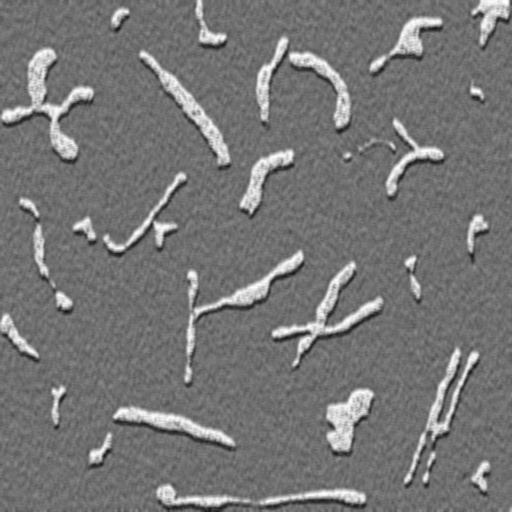
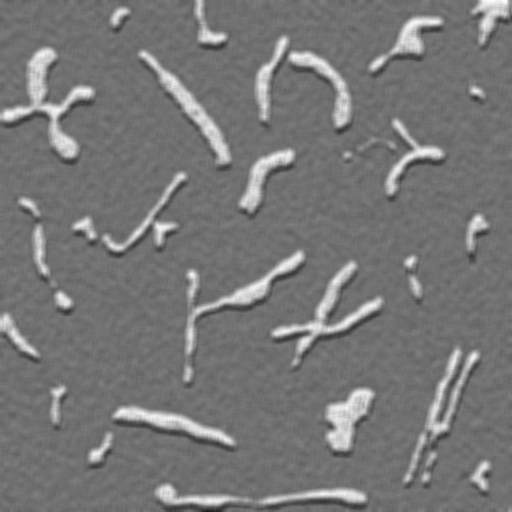
Alterar trabalho final

diff --git a/trabalho_final/trabalho_final.py b/trabalho_final/trabalho_final.py
@@ -6,11 +6,14 @@ cv2.imshow("Imagem ruidosa", img)
 cv2.waitKey()
 
 # Filtro
-imgf = cv2.GaussianBlur(img, (5, 5), 0, None, 10)
+imgf = cv2.GaussianBlur(img, (7, 7), 10)
 cv2.imshow("Aplicado o filtro gaussiano", imgf)
 #imgf = cv2.medianBlur(img, 5)
 #cv2.imshow("Aplicado o filtro da mediana", imgf)
 cv2.waitKey()
+
+rel, img_r_lim = cv2.threshold(img, 145, 255, cv2.THRESH_BINARY)
+cv2.imshow("Imagem ruidosa limiarizada", img_r_lim)
 
 # Limiarização
 rel, img_lim = cv2.threshold(imgf, 145, 255, cv2.THRESH_BINARY)
@@ -19,17 +22,21 @@ cv2.imshow("Imagem limiarizada", img_lim)
 # Comparação
 # Imagem original
 orig = cv2.imread("imagem_original.png")
-rel, orig_lim = cv2.threshold(orig, 172, 255, cv2.THRESH_BINARY)
+rel, orig_lim = cv2.threshold(orig, 170, 255, cv2.THRESH_BINARY)
 cv2.imshow("Imagem original", orig_lim)
 
 pixel_total = math.pow(len(img_lim), 2)
 eq_pixel = 0
+eq_pixel2 = 0
 for i in range(len(img_lim)):
     for j in range(len(img_lim[i])):
         if (img_lim[i,j].any() == orig_lim[i,j].any()):
             eq_pixel += 1
+        if (img_r_lim[i,j].any() == orig_lim[i,j].any()):
+            eq_pixel2 += 1
 
 print((eq_pixel/pixel_total)*100)
+print((eq_pixel2/pixel_total)*100)
 cv2.waitKey()
 
 cv2.imwrite("1_filtro_gaussiano.png", imgf)
